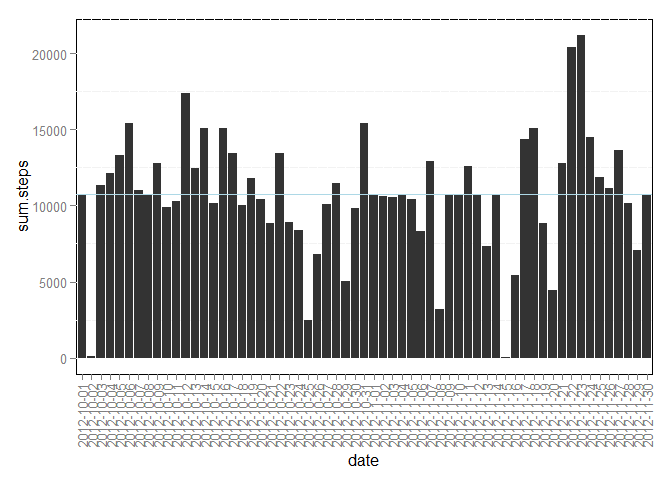
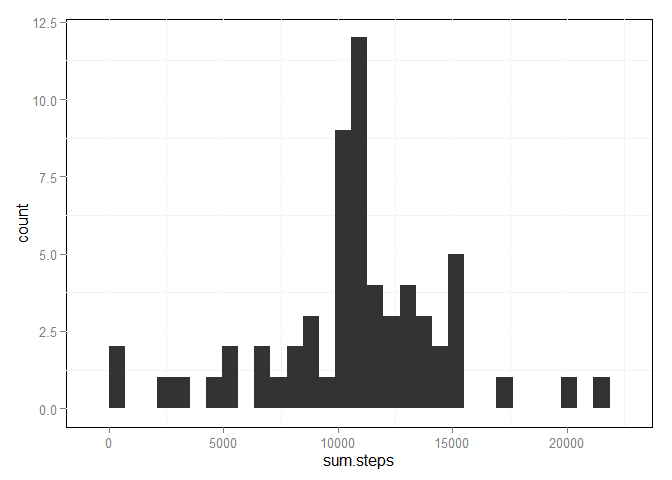
Fixed Histogram,   added a note
While reviewing the submission instructions  I had a doubt about  how  I
did address  the mean and the median.   This brogth me to review the
histograms.   All should be correct now.

diff --git a/PA1_template.html b/PA1_template.html
@@ -111,14 +111,12 @@ data.no_na &lt;- na.omit(data.raw)</code></pre>
 data.sum.day_steps &lt;- summarise(group_by(data.no_na, date), 
                                 sum.steps=sum(steps))</code></pre>
 <p><strong><em>2. Make a histogram of the total number of steps taken each day</em></strong></p>
-<pre class="r"><code>qplot(date,sum.steps,data=data.sum.day_steps,
-      geom=&quot;histogram&quot;,
-      stat=&quot;identity&quot;)+
+<pre class="r"><code>qplot(sum.steps,data=data.sum.day_steps,
+      geom=&quot;histogram&quot;)+
   # fix labels position
-  theme(axis.text.x = element_text(angle = 90, 
-                                   vjust = 0.5, hjust=1))+
   theme(panel.background = element_rect(fill = 'white', colour = 'black'))</code></pre>
[1 lines of base64/hex data omitted]
+<pre><code>## stat_bin: binwidth defaulted to range/30. Use 'binwidth = x' to adjust this.</code></pre>
[1 lines of base64/hex data omitted]
 <p><strong><em>3. Calculate and report the mean and median of the total number of steps taken per day</em></strong></p>
 <pre class="r"><code># compute the mean
 data.mean_day_steps &lt;- mean(data.sum.day_steps$sum.steps)
@@ -129,6 +127,14 @@ data.median_day_steps &lt;- median(data.sum.day_steps$sum.steps)</code></pre>
 <li>the mean daily number of steps is 10766.1886792</li>
 <li>the median daily number of steps is 10765</li>
 </ul>
+<div id="note" class="section level4">
+<h4>Note</h4>
+<p>Upon submission I wondered whether <em>total number of steps taken per day</em> means one mean and one median for EACH day. In <a href="https://class.coursera.org/repdata-034/forum/thread?thread_id=27" class="uri">https://class.coursera.org/repdata-034/forum/thread?thread_id=27</a> David Hood our COMMUNITY TA points out:</p>
+<p>Step 1 - calculate a set of totals of the the number of sets in each day</p>
+<p>Step 2 - using the set of totals, calculate the histogram</p>
+<p>Step 3 - using the set of totals, calculate the mean and median</p>
+<p>So my process should be correct.</p>
+</div>
 </div>
 <div id="what-is-the-average-daily-activity-pattern" class="section level2">
 <h2>What is the average daily activity pattern?</h2>
@@ -211,20 +217,17 @@ est.mean_day_steps &lt;- mean(est.data.sum.day_steps$sum.steps)
 est.median_day_steps &lt;- median(est.data.sum.day_steps$sum.steps)
 
 # plot histogram
-histogram= qplot(date,sum.steps,
+histogram= qplot(sum.steps,
                  data=est.data.sum.day_steps,
-                 geom=&quot;histogram&quot;,
-                 stat=&quot;identity&quot;)+  
-  # fix labels position
-  theme(axis.text.x = element_text(angle = 90, 
-                                   vjust = 0.5, hjust=1))+
+                 geom=&quot;histogram&quot;)+  
   theme(panel.background = element_rect(fill = 'white', colour = 'black'))
 # add the median (and the mean that has basically the same value)
 histogram= histogram + geom_abline(intercept = est.median_day_steps, slope = 0,
                                    color= &quot;lightblue&quot;)
 #display
 histogram</code></pre>
[1 lines of base64/hex data omitted]
+<pre><code>## stat_bin: binwidth defaulted to range/30. Use 'binwidth = x' to adjust this.</code></pre>
[1 lines of base64/hex data omitted]
 <p>The histogram above shows shows the estimated number of steps per day, while the light blue line shows the value of the median (and the mean) daily number of steps.</p>
 <p>The requested mean and median values are below.</p>
 <ul>

diff --git a/PA1_template.md b/PA1_template.md
@@ -88,13 +88,14 @@ __*2. Make a histogram of the total number of steps taken each day*__
 
 
 ```r
-qplot(date,sum.steps,data=data.sum.day_steps,
-      geom="histogram",
-      stat="identity")+
+qplot(sum.steps,data=data.sum.day_steps,
+      geom="histogram")+
   # fix labels position
-  theme(axis.text.x = element_text(angle = 90, 
-                                   vjust = 0.5, hjust=1))+
   theme(panel.background = element_rect(fill = 'white', colour = 'black'))
+```
+
+```
+## stat_bin: binwidth defaulted to range/30. Use 'binwidth = x' to adjust this.
 ```
 
 ![](PA1_template_files/figure-html/histogram-1.png) 
@@ -113,6 +114,20 @@ data.median_day_steps <- median(data.sum.day_steps$sum.steps)
 
  - the mean daily number of steps is 10766.1886792
  - the median daily number of steps is 10765
+ 
+ 
+
+#### Note
+
+Upon submission I wondered whether *total number of steps taken per day* means one mean and one median  for EACH day.  In https://class.coursera.org/repdata-034/forum/thread?thread_id=27 David Hood our COMMUNITY TA points out:
+
+Step 1 - calculate a set of totals of the the number of sets in each day 
+
+Step 2 - using the set of totals, calculate the histogram 
+
+Step 3 - using the set of totals, calculate the mean and median
+
+So my  process should be correct.
 
 ## What is the average daily activity pattern?
 
@@ -250,19 +265,19 @@ est.mean_day_steps <- mean(est.data.sum.day_steps$sum.steps)
 est.median_day_steps <- median(est.data.sum.day_steps$sum.steps)
 
 # plot histogram
-histogram= qplot(date,sum.steps,
+histogram= qplot(sum.steps,
                  data=est.data.sum.day_steps,
-                 geom="histogram",
-                 stat="identity")+  
-  # fix labels position
-  theme(axis.text.x = element_text(angle = 90, 
-                                   vjust = 0.5, hjust=1))+
+                 geom="histogram")+  
   theme(panel.background = element_rect(fill = 'white', colour = 'black'))
 # add the median (and the mean that has basically the same value)
 histogram= histogram + geom_abline(intercept = est.median_day_steps, slope = 0,
                                    color= "lightblue")
 #display
 histogram
+```
+
+```
+## stat_bin: binwidth defaulted to range/30. Use 'binwidth = x' to adjust this.
 ```
 
 ![](PA1_template_files/figure-html/estimated_mean_median-1.png) 
